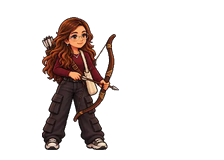
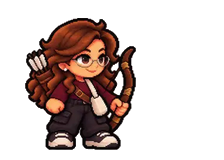
Match Alice and Gui chibi proportions to Jao

Changed region(s): [[0.0938, 0.0938, 0.625, 0.9375]]

diff --git a/scripts/build_approved_sprites.py b/scripts/build_approved_sprites.py
@@ -17,16 +17,17 @@ SOURCE_SCALE = .5  # source sheets were reduced from their generation size
 # Horizontal boundaries separate the figures; character centers stabilize the
 # body's position even while an attack extends a bow, card or sword to the right.
 SHEETS = {
-    'jao': {'scale': .25, 'frames': [(62,423,240),(446,901,720),(952,1734,1180),(1792,2083,1937)]},
-    'alice': {'scale': .19, 'frames': [(47,452,246),(494,952,730),(990,1592,1210),(1619,1949,1782)]},
-    'gui': {'scale': .216, 'frames': [(56,409,240),(519,973,742),(1051,1757,1260),(1790,2148,1958)]},
+    'jao': {'file': 'jao.webp', 'scale': .25, 'frames': [(62,423,240),(446,901,720),(952,1734,1180),(1792,2083,1937)]},
+    'alice': {'file': 'alice-chibi.webp', 'scale': .30, 'frames': [(15,420,210),(440,868,650),(870,1280,1065),(1280,1790,1465),(1795,2160,1965)]},
+    'gui': {'file': 'gui-chibi.webp', 'scale': .28, 'frames': [(15,410,205),(420,820,625),(820,1200,1010),(1205,1780,1400),(1785,2165,1950)]},
 }
 ALTERNATE = {
     'jao': (760, .1415),
     'alice': (570, .1057),
     'gui': (560, .1030),
 }
-FRAMES = ('front', 'walk1', 'attack', 'back')
+JAO_FRAMES = ('front', 'walk1', 'attack', 'back')
+CHIBI_FRAMES = ('front', 'walk1', 'walk2', 'attack', 'back')
 
 
 def extract(sheet, bounds, scale):
@@ -87,9 +88,11 @@ def save(image, filename):
 
 
 for hero, spec in SHEETS.items():
-    sheet = Image.open(SOURCE / f'{hero}.webp').convert('RGBA')
-    frames = {name: extract(sheet, box, spec['scale']) for name,box in zip(FRAMES,spec['frames'])}
-    frames['walk2'] = alternate_step(hero)
+    sheet = Image.open(SOURCE / spec['file']).convert('RGBA')
+    names = JAO_FRAMES if hero == 'jao' else CHIBI_FRAMES
+    frames = {name: extract(sheet, box, spec['scale']) for name,box in zip(names,spec['frames'])}
+    if hero == 'jao':
+        frames['walk2'] = alternate_step(hero)
     for pose, image in frames.items():
         stem = hero if pose == 'front' else f'{hero}-{pose}'
         save(image, f'{stem}-armed' if pose != 'attack' else stem)

diff --git a/CREDITS.md b/CREDITS.md
@@ -12,7 +12,7 @@
 | Diabrete de Brasa, Acólito do Véu, Olho da Forja, Guardião de Musgo e Vigia do Sino em `src/assets/` | Criaturas geradas para este jogo, recortadas e otimizadas; comportamento implementado no código. | Assets originais deste projeto, sem imagem de Soul Knight incorporada. |
 | Jão Fogo e Plasma, oito poses em `src/assets/` | Derivadas dos sprites aprovados do Jão por troca de paleta da roupa, ombreiras e insígnia com `scripts/make_jao_forms.py`. Nenhuma foto adicional foi publicada. | Derivação original deste projeto. |
 | Flecha e três cartas de projétil em `src/assets/`; armas da iteração anterior arquivadas | Pixel art desenhada por primitivas no script reproduzível `scripts/make_weapon_art.py`. Os projéteis seguem na build; a espada, arco e leque separados não são mais carregados. | Conteúdo original deste projeto. |
-| Três pranchas aprovadas em `docs/visual/*-arma-aprovada.webp`; seis matrizes transparentes em `art/sheets/`; PNGs `*-armed`, `*-attack` e `*-select` | Pranchas e poses geradas para este projeto com referências dos sprites autorais anteriores. `scripts/build_approved_sprites.py` recorta e alinha os frames e deriva as formas do Jão. As fotografias fornecidas pelo MVP não são distribuídas. | Conteúdo original deste projeto; nenhuma arte de Soul Knight incorporada. As antigas armas em camada separada ficam apenas como registro da iteração anterior. |
+| Três pranchas aprovadas em `docs/visual/*-arma-aprovada.webp`; matrizes transparentes em `art/sheets/`; PNGs `*-armed`, `*-attack` e `*-select` | Pranchas e poses geradas para este projeto com referências dos sprites autorais anteriores. `alice-chibi.webp` e `gui-chibi.webp` foram redesenhadas com a proporção do Jão; `scripts/build_approved_sprites.py` recorta e alinha os frames e deriva as formas do Jão. As fotografias fornecidas pelo MVP não são distribuídas. | Conteúdo original deste projeto; nenhuma arte de Soul Knight incorporada. As antigas matrizes altas e armas em camada separada ficam apenas como registro da iteração anterior. |
 | Engine e build | Phaser 3, TypeScript e Vite | Dependências sob suas licenças próprias no lockfile e pacotes. |
 
 Soul Knight é referência de ritmo e mecânicas. Não são usados seus personagens, sprites, músicas, logotipo ou mapas. Os repositórios e pacotes listados em `docs/05-PESQUISA-BASES.md` foram estudados, sem código ou assets copiados para este jogo.

diff --git a/docs/HANDOFF.md b/docs/HANDOFF.md
@@ -72,3 +72,7 @@ O ajuste [`21609e6`](https://github.com/JaoDaJunq/Junq_SoulKnight/commit/21609e6
 O MVP rejeitou a arma como camada sobreposta e aprovou as três pranchas em `docs/visual/*-arma-aprovada.webp`. A nova seleção usa retratos de Jão, Alice e Gui com espada, arco e cartas integrados ao corpo. A arena usa cinco poses alinhadas por herói: frente, dois passos para o lado, costas e ataque lateral; esquerda espelha o lado direito. Punho, arma e silhueta vêm do mesmo frame, sem o antigo sprite `heldWeapon` ou seu tween. A bainha, aljava e estojo fazem parte do figurino. As matrizes compactas ficam em `art/sheets/`; `python scripts/build_approved_sprites.py` regenera os PNGs em `src/assets/` (requer Pillow). As formas Fogo/Plasma do Jão foram derivadas dos mesmos frames. A lógica de alvo, custo de energia, flecha, cartas e alcance do corte não mudou.
 
 `npm run typecheck`, `npm test` (três arquivos) e `npm run build` passaram após a extração final. A build gerou `assets/index-BuTdjm1U.js` e incluiu 28 sprites novos. O commit [`bb69c7a`](https://github.com/JaoDaJunq/Junq_SoulKnight/commit/bb69c7a20a684d02ac79775932c218d2cef156d6) publicou o lote; [Actions 38319452562](https://github.com/JaoDaJunq/Junq_SoulKnight/actions/runs/38319452562) concluiu com sucesso. O Pages serviu o mesmo bundle; no Chrome desktop a seleção exibiu os três retratos com equipamentos integrados e a arena carregou Jão com espada em escala de jogo, sem erro de console originado pelo jogo. O combate completo das três poses de ataque e Android horizontal ainda dependem de playtest; não declarar o encaixe ou o percurso completo aprovados sem retorno do MVP. T010 permanece em execução.
+
+## Proporção compacta do trio (12/10/2026)
+
+O MVP observou que Alice e Gui tinham proporções mais altas que Jão. As matrizes `alice-chibi.webp` e `gui-chibi.webp` redesenham ambos com cabeça maior, tronco e pernas curtos, mantendo roupas, arco/cartas nas mãos e cinco poses integradas. `build_approved_sprites.py` extrai os dois passos laterais da mesma folha; a frente fica com 132 pixels de altura útil, perto dos 134 pixels de Jão. As matrizes anteriores permanecem apenas como histórico. `npm run typecheck`, `npm test` (três arquivos) e `npm run build` passaram; a build local gerou `assets/index-CftrHaiy.js`. Falta conferir esta revisão no Pages e em celular horizontal.

diff --git a/docs/06-DIRECAO-VISUAL.md b/docs/06-DIRECAO-VISUAL.md
@@ -4,6 +4,8 @@
 
 **Armas integradas, revisão aprovada:** as três [pranchas do Jão](visual/jao-arma-aprovada.webp), [Alice](visual/alice-arma-aprovada.webp) e [Gui](visual/gui-arma-aprovada.webp) foram aprovadas pelo MVP após rejeitar as armas flutuando sobre os sprites. A arma agora faz parte da pose e do figurino: Jão empunha espada e leva bainha nas costas, Alice segura arco e carrega aljava, Gui segura cartas pequenas e usa estojo de couro. As folhas de origem ficam em `art/sheets/`; os PNGs reduzidos são gerados por `scripts/build_approved_sprites.py`. Os efeitos de ataque existentes foram preservados.
 
+**Correção de proporção:** ao ver a build, o MVP apontou que Alice e Gui pareciam altos diante do Jão. As novas matrizes `alice-chibi.webp` e `gui-chibi.webp` usam cabeça maior, tronco e pernas mais curtos e mãos/calçados mais largos. As três silhuetas têm agora altura de frame semelhante; frente, caminhada, costas e ataque seguem a mesma régua. Esta revisão visual ainda aguarda retorno do MVP na tela do celular.
+
 ## O que queremos sentir
 
 Três pessoas reais, Jão, Alice e Gui, entram numa masmorra fantástica e enfrentam salas curtas cheias de inimigos, altares e decisões de afinidade. O visual deve ser **pixel art nítida, expressiva e acolhedora**, com paredes de pedra, madeira, tochas, tapetes, baús e monstros inventados para este jogo. Os momentos de perigo continuam claros em uma tela de celular na horizontal.

diff --git a/art/sheets/README.md b/art/sheets/README.md
@@ -1,6 +1,6 @@
 # Matrizes dos heróis armados
 
-Estas seis folhas WebP com transparência são matrizes de trabalho geradas para o jogo a partir das três pranchas conceituais aprovadas pelo MVP em 12/10/2026. `jao.webp`, `alice.webp` e `gui.webp` têm frente, caminhada para a direita, ataque para a direita e costas. As folhas `*-walk2.webp` trazem o passo lateral alternado.
+Estas folhas WebP com transparência são matrizes de trabalho geradas para o jogo a partir das três pranchas conceituais aprovadas pelo MVP em 12/10/2026. `jao.webp` e `jao-walk2.webp` continuam em uso. `alice-chibi.webp` e `gui-chibi.webp` substituem as matrizes altas: têm frente, dois passos para a direita, ataque para a direita e costas na proporção compacta do Jão. `alice.webp`, `gui.webp` e as respectivas `*-walk2.webp` preservam a iteração anterior como histórico, mas não são carregadas pelo script atual.
 
 `python scripts/build_approved_sprites.py` extrai, alinha e reduz os personagens para os PNGs carregados em `src/assets/`. Cada frame de jogo usa canvas 224 × 160, corpo ancorado em x=80, pés em y=150; a seleção usa recorte 160 × 160. O jogo não carrega estas matrizes nem as pranchas de conceito. As variantes Fogo e Plasma do Jão são geradas a partir das mesmas poses, preservando espada e silhueta.
 

diff --git a/README.md b/README.md
@@ -8,6 +8,8 @@ Planejamento de um jogo autoral 2D de ação, roguelite e tiro com visão superi
 
 **Arte dos heróis:** as [três pranchas aprovadas](docs/06-DIRECAO-VISUAL.md) orientam sprites novos de seleção, caminhada e ataque com as armas desenhadas junto ao corpo. A espada, o arco e as cartas não dependem mais de uma camada solta sobre o personagem. Os projéteis e a lógica de combate continuam os mesmos.
 
+Alice e Gui foram reajustados à proporção compacta do Jão nas poses de seleção, movimento e ataque. As matrizes ficam em `art/sheets/`; `python scripts/build_approved_sprites.py` regenera os PNGs com Pillow.
+
 ## O jogo em uma frase
 
 Escolha um herói Junq, atravesse salas conectadas, desvie de projéteis, use ataque e habilidade, escolha recompensas e derrote o chefe para concluir uma run curta. Ao morrer, a run termina e o jogador volta ao hub com apenas os desbloqueios permanentes previstos.
